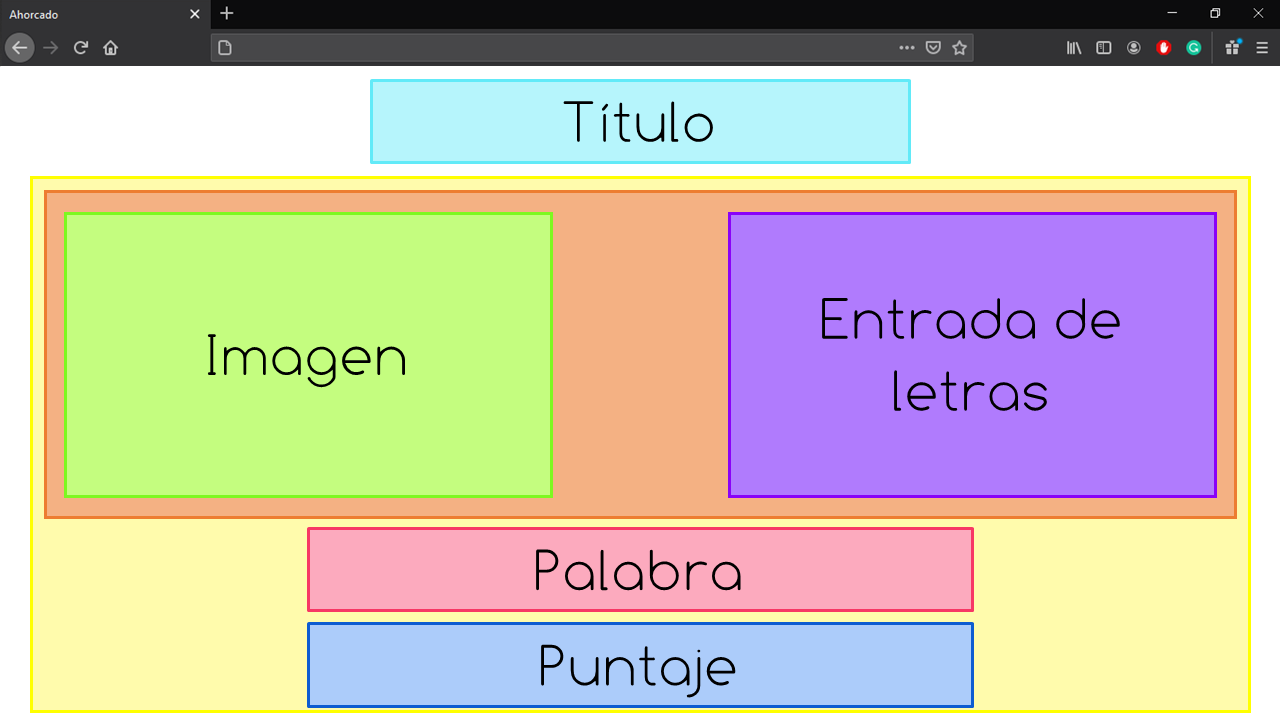
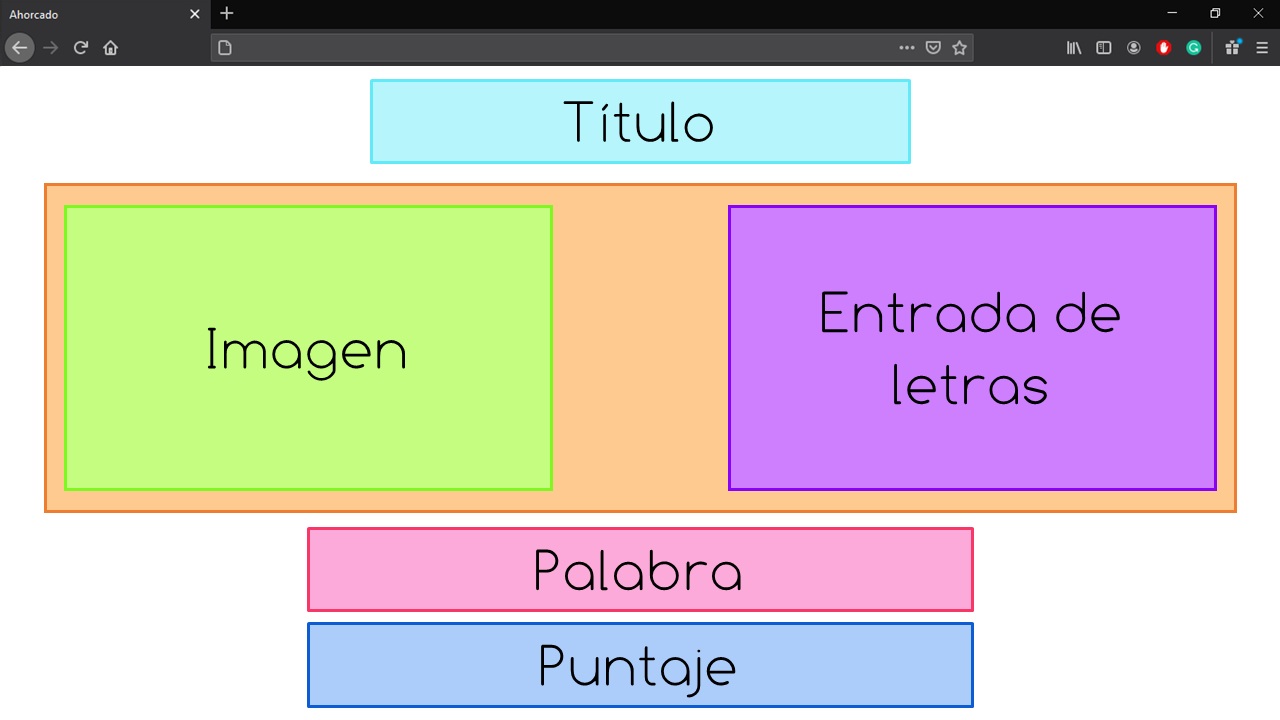
Update 18-Ejemplo.md

diff --git a/Ahorcado/index.html b/Ahorcado/index.html
@@ -8,20 +8,18 @@
     </head>
     <body>
         <h1 id="titulo">Juego de Ahorcado</h1>
-        <div class="contenedor-juego">
-            <div class="contenedor-dividido">
-                <div class="division contenedor-imagen">
-                    <img src="img/1.png" >
-                </div>
-                <div class="division contenedor-letras">
-                    <h3>Ingresa una letra</h3>
-                    <input type="text" id="entrada-letra">
-                </div>
+        <div class="contenedor-dividido">
+            <div class="division contenedor-imagen">
+                <img src="img/1.png" id="imagen">
             </div>
-            <div class="contenedor-palabra"></div>
-            <div class="contenedor-puntaje">
-                Puntaje: 0
+            <div class="division contenedor-letras">
+                <h3>Ingresa una letra</h3>
+                <input type="text" id="entrada-letra">
             </div>
+        </div>
+        <div class="contenedor-palabra"></div>
+        <div class="contenedor-puntaje">
+            Puntaje: 0
         </div>
 
         <script type="text/javascript" src="js/script.js"></script>

diff --git a/Ahorcado/css/style.css b/Ahorcado/css/style.css
@@ -10,3 +10,31 @@ h1{
     text-align: center;
     font-size: 3.5vw;
 }
+
+.contenedor-dividido{
+    display: flex;
+    align-items: center;
+}
+
+.contenedor-imagen{
+    width: 50%;
+    display: flex;
+    justify-content: center;
+}
+
+#imagen{
+    width: 40%;
+}
+
+.contenedor-letras{
+    width: 50%;
+    display: flex;
+    flex-direction: column;
+    align-items: center;
+}
+
+.contenedor-puntaje{
+    font-size: 1.7vw;
+    font-weight: bold;
+    margin: 30px 60px;
+}

diff --git a/18. Ejemplo.md b/18. Ejemplo.md
@@ -8,7 +8,7 @@ Ahora, veremos un ejemplo donde aplicaremos todo lo que hemos aprendido en el cu
 
 Veremos el paso a paso para escribir el código HTML, CSS y JS que necesitaremos para nuestro sitio web.
 
-1. Para que nuestro juego funcione correctamente, hay muchos elementos que crearemos dinámicamente, utilizando Javascript. Sin embargo, para comenzar, debemos crear el documento HTML que contendrá la estructura base de nuestro sitio web. Lo llamaremos `index.html`
+Para que nuestro juego funcione correctamente, hay muchos elementos que crearemos dinámicamente, utilizando Javascript. Sin embargo, para comenzar, debemos crear el documento HTML que contendrá la estructura base de nuestro sitio web. Lo llamaremos `index.html`
 
 ```html
 <!DOCTYPE html>
@@ -23,51 +23,45 @@ Veremos el paso a paso para escribir el código HTML, CSS y JS que necesitaremos
 </html>
 ```
 
-&nbsp;&nbsp;&nbsp;&nbsp;&nbsp;&nbsp;&nbsp;&nbsp;&nbsp;
 Empezamos por darle un título a nuestro sitio web, por ejemplo; *Ahorcado*.
 
 ```html
 <title>Ahorcado</title>
 ```
 
-2. Para construir el esqueleto de nuestro sitio web, podemos pensarlo de la siguiente forma:
+Para construir el esqueleto de nuestro sitio web, podemos pensarlo de la siguiente forma:
 
 <p align="center">
     <img src="./img/js/base.png">
 </p>
 
-&nbsp;&nbsp;&nbsp;&nbsp;&nbsp;&nbsp;&nbsp;&nbsp;&nbsp;
 Podemos pensar que cada rectángulo representa un contenedor, esto nos ayudará a acomodar más fácilmente el contenido del sitio cuando utilicemos la hoja de estilos.
 
-&nbsp;&nbsp;&nbsp;&nbsp;&nbsp;&nbsp;&nbsp;&nbsp;&nbsp;
 Entonces, nuestro documento HTML se vería así:
 
 ```html
 <body>
     <h1 id="titulo">Juego de Ahorcado</h1>
-    <div class="contenedor-juego">
-        <div class="contenedor-dividido">
-            <div class="division contenedor-imagen">
+    <div class="contenedor-dividido">
+        <div class="division contenedor-imagen">
 
-            </div>
-            <div class="division contenedor-letras">
-
-            </div>
         </div>
-        <div class="contenedor-palabra"></div>
-        <div class="contenedor-puntaje"></div>
+        <div class="division contenedor-letras">
+
+        </div>
     </div>
+    <div class="contenedor-palabra"></div>
+    <div class="contenedor-puntaje"></div>
 </body>
 ```
-&nbsp;&nbsp;&nbsp;&nbsp;&nbsp;&nbsp;&nbsp;&nbsp;&nbsp;
+
 Recordemos que de esta forma
 `<div class="division contenedor-letras">` le asignamos a un mismo `div` dos clases diferentes.
 
-3. Ya que tenemos el esqueleto del documento, podemos agregar la imagen que aparecerá al comienzo del juego. Para facilitar el código, tendremos una imagen por cada vez que el jugador seleccione una letra incorrecta, y las nombraremos `1`, `2`, `3`, etc.
+Ya que tenemos el esqueleto del documento, podemos agregar la imagen que aparecerá al comienzo del juego. Para facilitar el código, tendremos una imagen por cada vez que el jugador seleccione una letra incorrecta, y las nombraremos `1`, `2`, `3`, etc.
 
 [Imagenes](Ahorcado/img)
 
-&nbsp;&nbsp;&nbsp;&nbsp;&nbsp;&nbsp;&nbsp;&nbsp;&nbsp;
 Entonces, agregaremos la primer imagen dentro del div `contenedor-imagen`
 
 ```html
@@ -76,7 +70,7 @@ Entonces, agregaremos la primer imagen dentro del div `contenedor-imagen`
 </div>
 ```
 
-4. Podemos agregar también el mensaje *Ingresa una letra* y *Puntaje 0*; que se mostrará así inicialmente, pero que modificaremos mas adelante utilizando Javascript.
+Podemos agregar también el mensaje *Ingresa una letra* y *Puntaje 0*; que se mostrará así inicialmente, pero que modificaremos mas adelante utilizando Javascript.
 
 ```html
 <div class="division contenedor-letras">
@@ -90,7 +84,6 @@ Entonces, agregaremos la primer imagen dentro del div `contenedor-imagen`
 </div>
 ```
 
-&nbsp;&nbsp;&nbsp;&nbsp;&nbsp;&nbsp;&nbsp;&nbsp;&nbsp;
 Además de esto, necesitamos crear la entrada de texto, donde el usuario ingresará cada letra. Para esto, utilizaremos la etiqueta `<input>` con `type=text`.
 
 ```html
@@ -100,7 +93,6 @@ Además de esto, necesitamos crear la entrada de texto, donde el usuario ingresa
 </div>
 ```
 
-&nbsp;&nbsp;&nbsp;&nbsp;&nbsp;&nbsp;&nbsp;&nbsp;&nbsp;
 Hasta ahora, nuestro documento HTML luce de la siguiente forma:
 
 ```html
@@ -112,29 +104,25 @@ Hasta ahora, nuestro documento HTML luce de la siguiente forma:
     </head>
     <body>
         <h1 id="titulo">Juego de Ahorcado</h1>
-        <div class="contenedor-juego">
-            <div class="contenedor-dividido">
-                <div class="division contenedor-imagen">
-                    <img src="img/1.png" >
-                </div>
-                <div class="division contenedor-letras">
-                    <h3>Ingresa una letra</h3>
-                    <input type="text" id="entrada-letra">
-                </div>
+        <div class="contenedor-dividido">
+            <div class="division contenedor-imagen">
+                <img src="img/1.png" id="imagen">
             </div>
-            <div class="contenedor-palabra"></div>
-            <div class="contenedor-puntaje">
-                Puntaje: 0
+            <div class="division contenedor-letras">
+                <h3>Ingresa una letra</h3>
+                <input type="text" id="entrada-letra">
             </div>
+        </div>
+        <div class="contenedor-palabra"></div>
+        <div class="contenedor-puntaje">
+            Puntaje: 0
         </div>
     </body>
 </html>
 
 ```
+Para terminar con el archivo HTML, solo nos falta agregar nuestros archivos `.css` y `.js`, que utilizaremos de forma externa. Además, utilizaremos una fuente de [Google fonts](https://fonts.google.com/), para que el sitio luzca mejor.
 
-7. Para terminar con el archivo HTML, solo nos falta agregar nuestros archivos `.css` y `.js`, que utilizaremos de forma externa. Además, utilizaremos una fuente de [Google fonts](https://fonts.google.com/), para que el sitio luzca mejor.
-
-&nbsp;&nbsp;&nbsp;&nbsp;&nbsp;&nbsp;&nbsp;&nbsp;&nbsp;
 Entonces, empezamos por agregar el documento `.css` y la liga a la fuente en Google fonts que más nos guste.
 
 ```html
@@ -146,14 +134,12 @@ Entonces, empezamos por agregar el documento `.css` y la liga a la fuente en Goo
 </head>
 ```
 
-&nbsp;&nbsp;&nbsp;&nbsp;&nbsp;&nbsp;&nbsp;&nbsp;&nbsp;
 Por último, agregamos nuestro documento `.js`, justo antes de cerrar la etiqueta `<body>`.
 
 ```html
 <script type="text/javascript" src="js/script.js"></script>
 ```
 
-&nbsp;&nbsp;&nbsp;&nbsp;&nbsp;&nbsp;&nbsp;&nbsp;&nbsp;
 Hasta ahora, nuestro sitio web luce así:
 
 <p align="center">
@@ -161,12 +147,11 @@ Hasta ahora, nuestro sitio web luce así:
     <img src="./img/js/ahorcado2.png" width="500px">
 </p>
 
-8. Ahora, vamos a comenzar con la hoja de estilos. Como mencionábamos arriba, muchos de los elementos de nuestro sitio web vamos a agregarlos dinámicamente usando Javascript, pero por ahora, podemos comenzar a escribir nuestro archivo `.css` para los elementos que creamos en el documento `.html`.
+Ahora, vamos a comenzar con la hoja de estilos. Como mencionábamos arriba, muchos de los elementos de nuestro sitio web vamos a agregarlos dinámicamente usando Javascript, pero por ahora, podemos comenzar a escribir nuestro archivo `.css` para los elementos que creamos en el documento `.html`.
 
-&nbsp;&nbsp;&nbsp;&nbsp;&nbsp;&nbsp;&nbsp;&nbsp;&nbsp;
 En nuestro `index.html`, creamos una etiqueta `<link>` para la hoja de estilos externa, donde le dimos el nombre de `style.css`. Entonces, en la carpeta de nuestro proyecto, vamos a crear una nueva carpeta `css`, y dentro de ella, un documento `style.css`.
 
-9. Para comenzar, vamos a darle a nuestro sitio un color de fondo. Utilizamos el selector `html`, para seleccionar todo el espacio de nuestro navegador.
+Para comenzar, vamos a darle a nuestro sitio un color de fondo. Utilizamos el selector `html`, para seleccionar todo el espacio de nuestro navegador.
 
 ```css
 html{
@@ -174,7 +159,6 @@ html{
 }
 ```
 
-&nbsp;&nbsp;&nbsp;&nbsp;&nbsp;&nbsp;&nbsp;&nbsp;&nbsp;
 También, vamos a establecer el tipo de fuente. En nuestro caso, vamos a utilizar el mismo tipo de fuente para todo el sitio, por lo que vamos a utilizar un selectro especial; `*`. El asterisco nos permite seleccionar todos los elementos de nuestro sitio web.
 
 ```css
@@ -183,7 +167,6 @@ También, vamos a establecer el tipo de fuente. En nuestro caso, vamos a utiliza
 }
 ```
 
-&nbsp;&nbsp;&nbsp;&nbsp;&nbsp;&nbsp;&nbsp;&nbsp;&nbsp;
 También, vamos a establecer el estilo de los encabezados. Específicamente de `h1`. Como es el título de nuestro sitio, vamos a colocarlo en el centro de la página, y vamos a cambiar su tamaño de fuente, para hacerlo un poco más grande.
 ```css
 h1{
@@ -192,8 +175,112 @@ h1{
 }
 ```
 
-&nbsp;&nbsp;&nbsp;&nbsp;&nbsp;&nbsp;&nbsp;&nbsp;&nbsp;
 Recordemos que las unidades `vw`, nos permiten que el tamaño de fuente sea proporcional al tamaño de la ventana del navegador.
 
-10. Ahora, vamos a distribuir los contenedores de nuestro sitio web.
-&nbsp;&nbsp;&nbsp;&nbsp;&nbsp;&nbsp;&nbsp;&nbsp;&nbsp;
+Ahora, vamos a distribuir los contenedores dentro de nuestro sitio web.
+
+Vamos a comenzar con el contenedor `contenedor-dividido`. Dentro de este contenedor definimos dos contenedores más, que, como ilustramos en la imagen, queremos acomodar cada uno en una mitad (horizontalmente) de la página. Para esto, vamos a darle al `contenedor-dividido` la propiedad flexbox, que recordemos, nos permite distribuir los elementos dentro del contenedor de la siguiente forma:
+
+<p align="center">
+    <img src="./img/flexbox4.png">
+</p>
+
+Como podemos ver, el contenedor `contenedor-imagen` es mucho más alto que el contenedor `contenedor-letras`, entonces, además, queremos que ambos contenedores estén centrados verticalmente. Para esto, utilizamos la propiedad `align-items: center`.
+
+<p align="center">
+    <img src="./img/alignItems3.png">
+</p>
+
+```css
+.contenedor-dividido{
+    display: flex;
+    align-items: center;
+}
+```
+
+<p align="center">
+    <img src="./img/js/ahorcado3.png">
+</p>
+
+Podemos ver que ambos contenedores se encuentran alineados lado a lados y centrados verticalmente, sin embargo, la imagen aún es demasiado grande.
+
+Entonces, vamos a modificar el estilo del contenedor `contenedor-imagen`.
+
+Para empezar, vamos a cambiar sus dimensiones, pues, como mencionamos arriba, queremos que cada contenedor ocupe la mitad del la página.
+
+```css
+.contenedor-imagen{
+    width: 50%;
+}
+```
+
+Ahora que definimos las dimensiones del contenedores, queremos centar la imagen en su interior, para esto tambien utilizaremos `flexbox`.
+
+```css
+.contenedor-imagen{
+    width: 50%;
+    display: flex;
+    justify-content: center;
+}
+```
+
+Por último, vamos a modificar las dimensiones de la imagen, pues aún es demasiado grande para nuestro sitio.
+
+
+```css
+#imagen{
+    width: 40%;
+}
+```
+
+Hasta ahora, nuestra página web luce así:
+
+<p align="center">
+    <img src="./img/js/ahorcado4.png">
+</p>
+
+Ahora, debemos acomodar el contenedor `contenedor-letras`. De la misma forma, queremos que el contenedor ocupe la mitad del página. Además, y a diferencia del `contenedor-imagen` que solo contiene el elemento `img`, aquí tenemos dos elementos, un `h3` y un `input`. Queremos centrar ambos elementos dentro del contenedor y que además, se muestre cada uno en una línea independiente. Para esto también usaremos `flexbox`.
+
+```css
+.contenedor-letras{
+    width: 50%;
+    display: flex;
+}
+```
+
+Recordemos que, al asignarle al contenedor la propiedad `display: flex`, sus elementos automáticamente se muestran uno al lado del otro. Para cambiar esto utilizamos `flex-direction: column`, que hace que los elementos se muestren uno sobre otro.
+
+```css
+.contenedor-letras{
+    width: 50%;
+    display: flex;
+    flex-direction: column;
+    align-items: center;
+}
+```
+
+Al encabezado `h3` vamos a cambiarle el tamaño de fuente para hacerlo más grande.
+
+```css
+h3{
+    font-size: 1.7vw;
+}
+```
+
+Los estilos para el contenedor `contenedor-palabra` los dejaremos para más adelante, cuando tengamos el código de Javascript.
+
+Entonces, solo nos falta el contenedor `contenedor-puntaje`. Para este contenedor, solamente vamos a modificar la fuente; vamos a hacerla más grade y negrita. Además, vamos a darle un margen, para que el mensaje no aparezca tan pagado al borde la página.
+
+```css
+.contenedor-puntaje{
+    font-size: 1.7vw;
+    font-weight: bold;
+    margin: 30px 60px;
+}
+```
+
+Hasta ahora nuestra página luce así:
+
+<p align="center">
+    <img src="./img/js/ahorcado5.png">
+</p>
